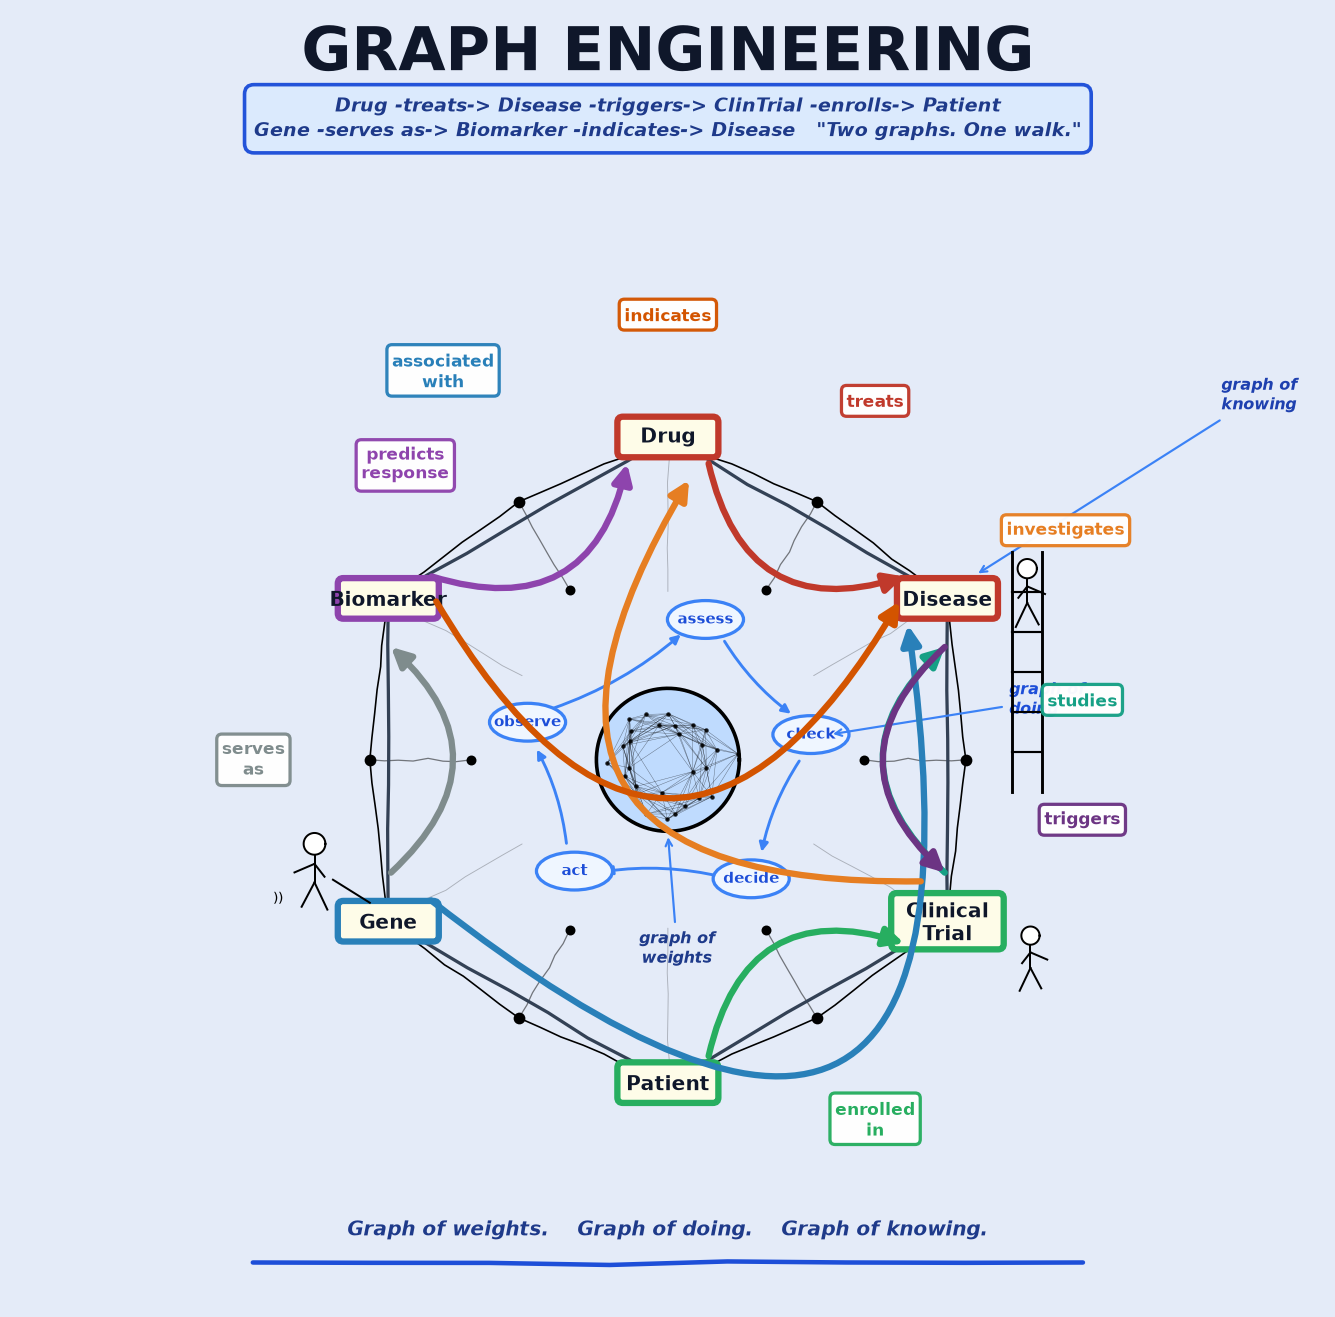
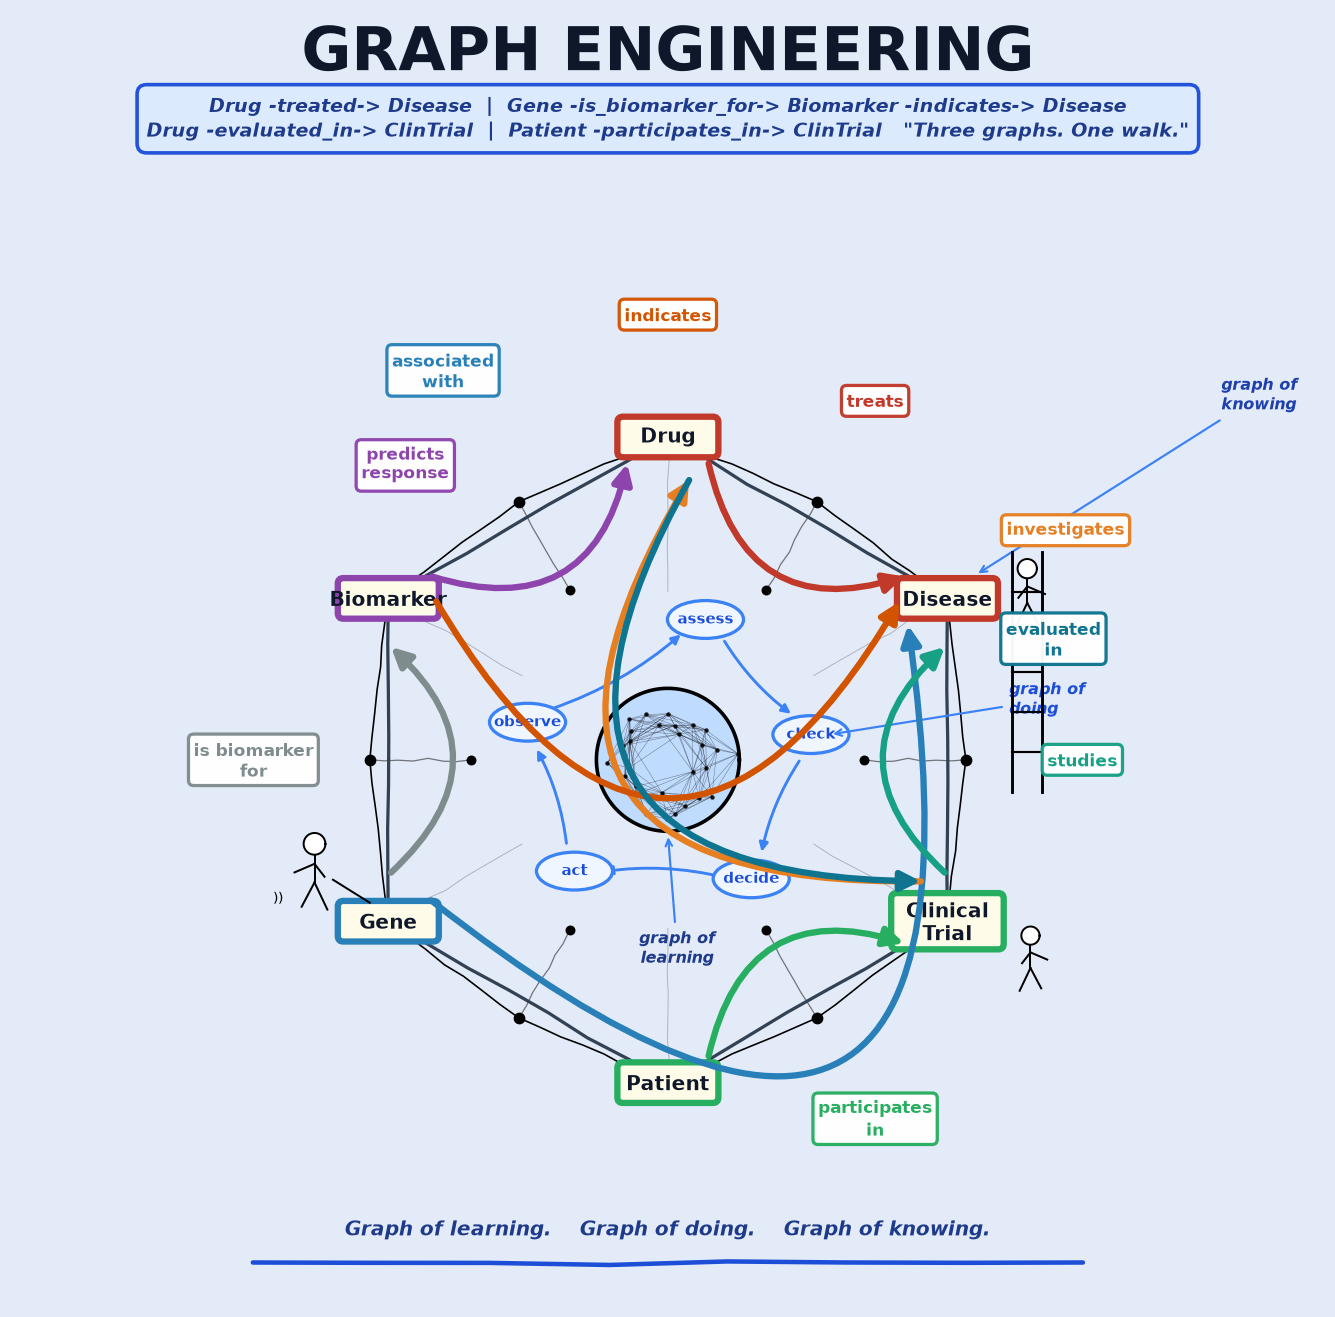
v7 Graph Engineering x Biomedical KG: Graph of Learning, formal relationship names
- Replaces Disease->ClinTrial 'triggers' with Drug->ClinTrial 'evaluated_in' (rad=+0.85)
- Updates center label to 'graph of learning' (was 'graph of weights')
- Formal snake_case relationship names in STEPS headlines and final frame
- Updated linkedin_post.txt with full post copy, source repo URLs, 18 hashtags
- Regenerated GIF (11 frames, ~26s) and LinkedIn static PNG (1:1 square)
- Added final_base.jpg and final_complete.jpg preview frames

diff --git a/graph/make_accurate_gif.py b/graph/make_accurate_gif.py
@@ -59,17 +59,17 @@ def arc_peak(p0, p1, rad):
 #   ClinTrial->Disease   r=-0.55 -> dist=0.80
 #   Gene->Biomarker      r=+0.55 -> dist=0.80
 #   Biomarker->Disease   r=+0.85 -> dist=0.865 (arcs over top)
-#   Disease->ClinTrial   r=+0.55 -> dist=0.799 (arcs right side)
+#   Drug->ClinTrial      r=+0.85 -> dist=0.865 (arcs right side)
 ALL_RELS = [
-    ('Drug',          'Disease',        'treats',            '#C0392B', +0.55),
-    ('Biomarker',     'Drug',           'predicts\nresponse','#8E44AD', +0.55, (-0.12, -0.14)),
-    ('Gene',          'Disease',        'associated\nwith',  '#2980B9', +1.25),
-    ('Patient',       'Clinical_Trial', 'enrolled\nin',      '#27AE60', -0.55),
-    ('Clinical_Trial','Drug',           'investigates',      '#E67E22', -0.90),
-    ('Clinical_Trial','Disease',        'studies',           '#16A085', -0.55, ( 0.0, +0.13)),
-    ('Gene',          'Biomarker',      'serves\nas',        '#7F8C8D', +0.55),
-    ('Biomarker',     'Disease',        'indicates',         '#D35400', +0.85),
-    ('Disease',       'Clinical_Trial', 'triggers',          '#6C3483', +0.55, ( 0.0, -0.13)),
+    ('Drug',          'Disease',        'treats',               '#C0392B', +0.55),
+    ('Biomarker',     'Drug',           'predicts\nresponse',   '#8E44AD', +0.55, (-0.12, -0.14)),
+    ('Gene',          'Disease',        'associated\nwith',     '#2980B9', +1.25),
+    ('Patient',       'Clinical_Trial', 'participates\nin',     '#27AE60', -0.55),
+    ('Clinical_Trial','Drug',           'investigates',         '#E67E22', -0.90),
+    ('Clinical_Trial','Disease',        'studies',              '#16A085', -0.55),
+    ('Gene',          'Biomarker',      'is biomarker\nfor',    '#7F8C8D', +0.55),
+    ('Biomarker',     'Disease',        'indicates',            '#D35400', +0.85),
+    ('Drug',          'Clinical_Trial', 'evaluated\nin',        '#0E7490', +0.85, ( 0.0, -0.22)),
 ]
 
 # ── helpers ────────────────────────────────────────────────────────────────────
@@ -165,7 +165,7 @@ def draw_frame(ax, active_rels=None, headline=None, glow=None):
                 [_sp_pts[i][1],_sp_pts[j][1]],'k-',lw=0.25,alpha=0.5,zorder=5)
     for pt in _sp_pts:
         ax.plot(pt[0],pt[1],'ko',markersize=1.5,zorder=6,alpha=0.8)
-    ax.annotate('graph of\nweights',xy=(CX,CY-R_SP-0.005),
+    ax.annotate('graph of\nlearning',xy=(CX,CY-R_SP-0.005),
                 xytext=(CX+0.02,CY-0.44),ha='center',fontsize=9,
                 color='#1E3A8A',style='italic',fontweight='bold',
                 arrowprops=dict(arrowstyle='->',color='#3B82F6',lw=1.2),zorder=10)
@@ -256,7 +256,7 @@ def draw_frame(ax, active_rels=None, headline=None, glow=None):
                           edgecolor='#1D4ED8',lw=2.0,alpha=0.97),zorder=20)
 
     # tagline
-    ax.text(0,-1.02,'Graph of weights.    Graph of doing.    Graph of knowing.',
+    ax.text(0,-1.02,'Graph of learning.    Graph of doing.    Graph of knowing.',
             ha='center',va='center',fontsize=11,color='#1E3A8A',
             fontfamily='DejaVu Sans',style='italic',fontweight='semibold')
     sketchy(ax,-0.90,-1.09,0.90,-1.09,lw=2.5,color='#1D4ED8',zorder=8)
@@ -284,23 +284,23 @@ kf(headline='Biomedical Knowledge Graph  --  31 node types  --  37 relationship 
 
 cumulative=[]
 STEPS=[
-    (ALL_RELS[0],'Drug  -[treats]->  Disease',                                   {'Drug','Disease'}),
-    (ALL_RELS[1],'Biomarker  -[predicts response]->  Drug',                      {'Drug','Disease','Biomarker'}),
-    (ALL_RELS[2],'Gene  -[associated with]->  Disease',                          {'Drug','Disease','Biomarker','Gene'}),
-    (ALL_RELS[3],'Patient  -[enrolled in]->  Clinical Trial',                    {'Drug','Disease','Biomarker','Gene','Patient','Clinical_Trial'}),
-    (ALL_RELS[4],'Clinical Trial  -[investigates]->  Drug',                      {'Drug','Disease','Biomarker','Gene','Patient','Clinical_Trial'}),
-    (ALL_RELS[5],'Clinical Trial  -[studies]->  Disease',                        {'Drug','Disease','Biomarker','Gene','Patient','Clinical_Trial'}),
-    (ALL_RELS[6],'Gene  -[serves as]->  Biomarker  (gene variant = biomarker)',  set(bio_pos.keys())),
-    (ALL_RELS[7],'Biomarker  -[indicates]->  Disease  (diagnostic link)',        set(bio_pos.keys())),
-    (ALL_RELS[8],'Disease  -[triggers]->  Clinical Trial  *ring closed*',        set(bio_pos.keys())),
+    (ALL_RELS[0],'Drug  -[treats]->  Disease',                                    {'Drug','Disease'}),
+    (ALL_RELS[1],'Biomarker  -[predicts_response_to]->  Drug',                    {'Drug','Disease','Biomarker'}),
+    (ALL_RELS[2],'Gene  -[associated_with]->  Disease',                           {'Drug','Disease','Biomarker','Gene'}),
+    (ALL_RELS[3],'Patient  -[participates_in]->  Clinical Trial',                 {'Drug','Disease','Biomarker','Gene','Patient','Clinical_Trial'}),
+    (ALL_RELS[4],'Clinical Trial  -[investigates]->  Drug',                       {'Drug','Disease','Biomarker','Gene','Patient','Clinical_Trial'}),
+    (ALL_RELS[5],'Clinical Trial  -[studies]->  Disease',                         {'Drug','Disease','Biomarker','Gene','Patient','Clinical_Trial'}),
+    (ALL_RELS[6],'Gene  -[is_biomarker_for]->  Biomarker',                        set(bio_pos.keys())),
+    (ALL_RELS[7],'Biomarker  -[indicates]->  Disease  (diagnostic link)',         set(bio_pos.keys())),
+    (ALL_RELS[8],'Drug  -[evaluated_in]->  Clinical Trial  *ring closed*',        set(bio_pos.keys())),
 ]
 for rel,headline,glow_set in STEPS:
     cumulative.append(rel)
     kf(list(cumulative),headline,glow_set,hold_ms=2000)
 
 kf(list(cumulative),
-   'Drug -treats-> Disease -triggers-> ClinTrial -enrolls-> Patient\n'
-   'Gene -serves as-> Biomarker -indicates-> Disease   "Two graphs. One walk."',
+   'Drug -treats-> Disease  |  Gene -is_biomarker_for-> Biomarker -indicates-> Disease\n'
+   'Drug -evaluated_in-> ClinTrial  |  Patient -participates_in-> ClinTrial   "Three graphs. One walk."',
    set(bio_pos.keys()),hold_ms=5000)
 
 print(f"Keyframes: {len(keyframes)}")
